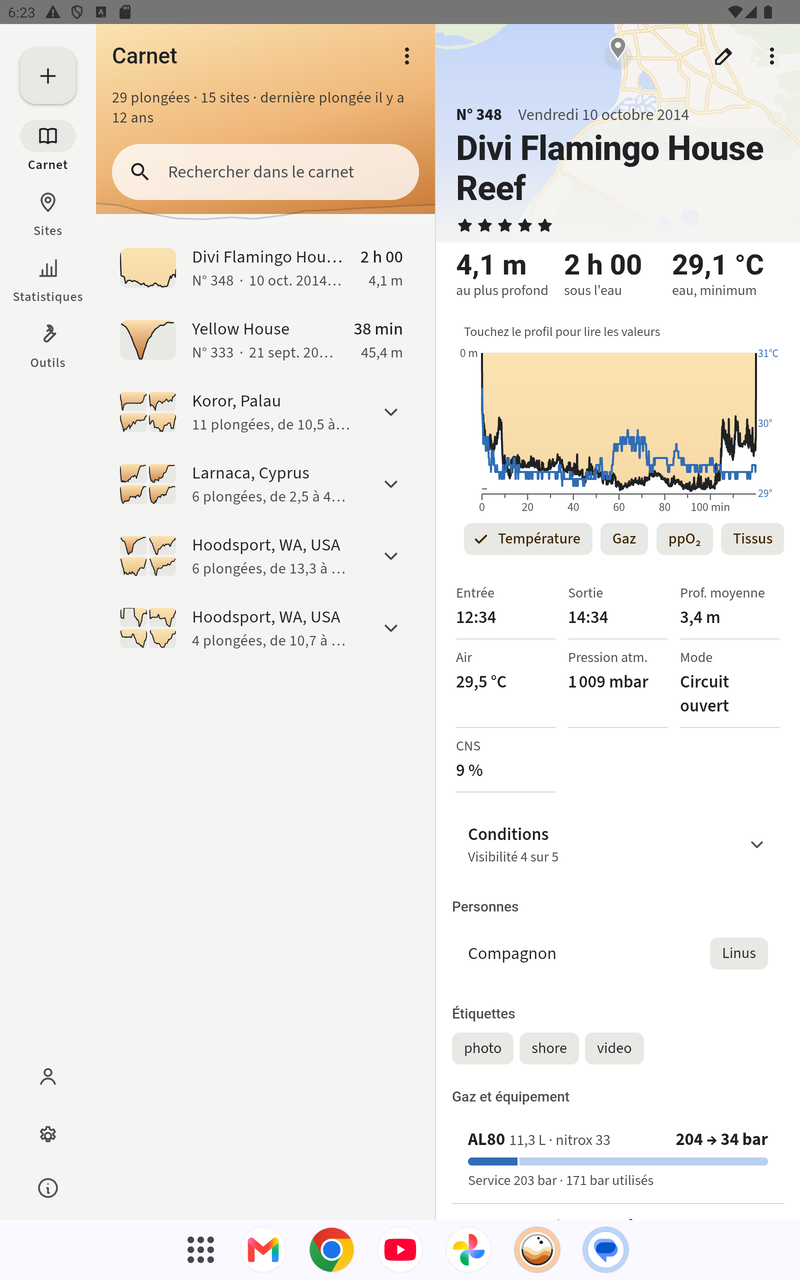
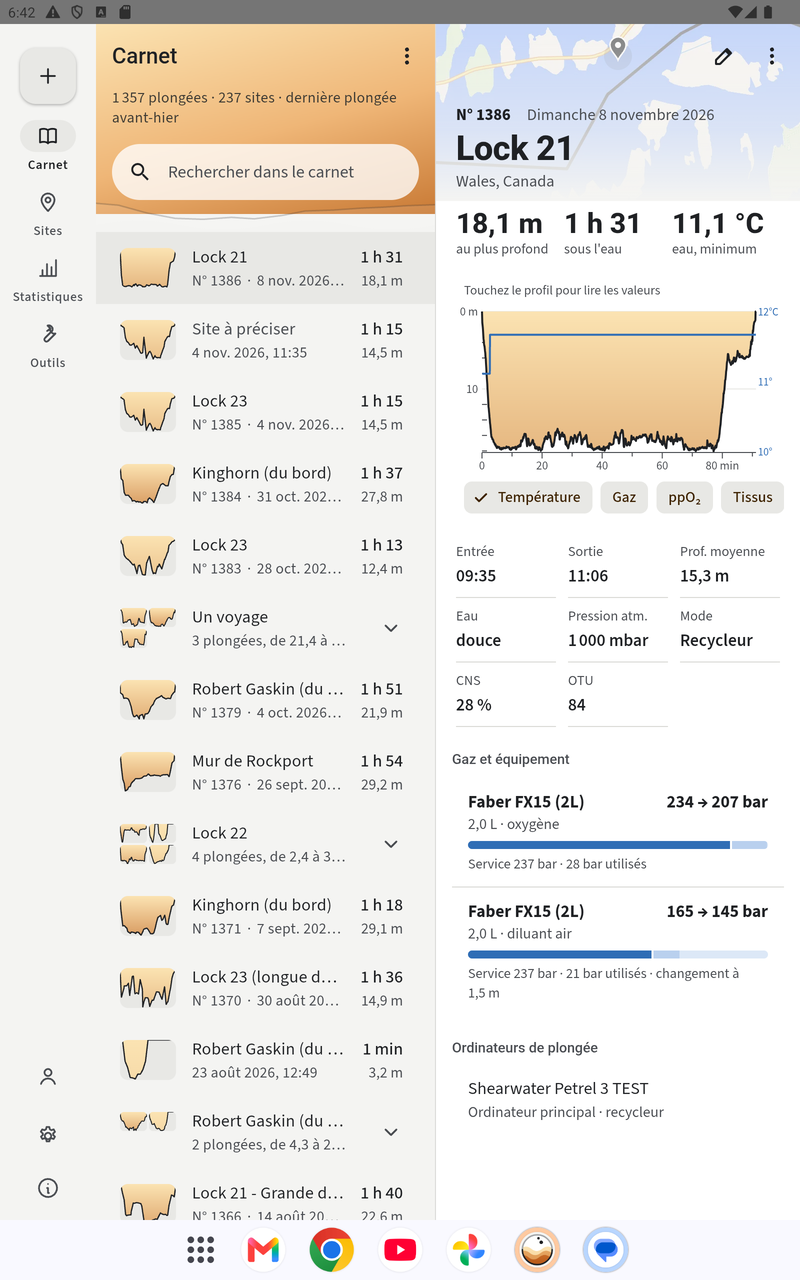
docs: Android tablet screenshots, every screen in landscape and portrait

diff --git a/docs/screenshots/android-tablet/README.md b/docs/screenshots/android-tablet/README.md
@@ -1,0 +1,72 @@
+# Android tablet screenshots
+
+Task 2026-11-10-17. Taken on 10 November 2026 on an Android tablet emulator (Pixel Tablet size: 2560 × 1600 px at 320 dpi, so 1280 × 800 dp), light theme, app and device locale in French.
+
+- **Scale:** 1 dp = 1 px. Each image is the whole screen, Android's status bar (24 dp) and the emulator's taskbar (60 dp) included: the app itself is 1280 × 716 dp in landscape and 800 × 1196 dp in portrait.
+- **Data:** the logbook of the cloud test account (1,357 dives, 237 sites), at Christian's request, instead of the bundled sample log.
+- **Layout common to every screen:** the navigation rail on the left, 96 dp, with + (add dives) at the top, Carnet, Sites, Statistiques, Outils, then Compte, Réglages and À propos at the bottom. The rail is the same in portrait.
+- **Panes:** the list pane is 340 dp in the Carnet, 400 dp in Statistics and 360 dp in Tools, in both orientations; the detail pane takes the rest. Sites, Account, Settings and About use the whole content area.
+
+| No. | Images | Route | Landscape | Portrait | Notes |
+| --- | --- | --- | --- | --- | --- |
+| 01 | [landscape](01-carnet-landscape.png), [portrait](01-carnet-portrait.png) | `/ and /dives/:id` | list 340 dp | list 340 dp | Home screen: the first dive opens beside the list. The band and the search bar sit in the list pane only. |
+| 02 | [landscape](02-carnet-search-landscape.png), [portrait](02-carnet-search-portrait.png) | `/` | list 340 dp | list 340 dp | Search "lock": the list pane filters, the detail keeps the dive shown. |
+| 03 | [landscape](03-carnet-selection-landscape.png), [portrait](03-carnet-selection-portrait.png) | `/` | list 340 dp | list 340 dp | Long press on a dive: selection mode in the list pane (✕, count, ⋮), check boxes before the thumbnails. |
+| 04 | [landscape](04-trip-landscape.png), [portrait](04-trip-portrait.png) | `/trips/:id` | list 340 dp | list 340 dp | A trip opens in the detail pane (dates, place, notes, its dives). |
+| 05 | [landscape](05-dive-detail-menu-landscape.png), [portrait](05-dive-detail-menu-portrait.png) | `/dives/:id` | list 340 dp, over it: od-menu popover | list 340 dp, over it: od-menu popover | The ⋮ menu of the detail is a popover at the top right of the detail pane. |
+| 06 | [landscape](06-edit-dive-landscape.png), [portrait](06-edit-dive-portrait.png) | `/dives/:id/edit` | list 340 dp, over it: od-edit-dive od-edit-sheet popup | list 340 dp, over it: od-edit-dive od-edit-sheet popup | The editor is a large sheet over both panes, in two columns in landscape, one in portrait. |
+| 07 | [landscape](07-add-menu-landscape.png), [portrait](07-add-menu-portrait.png) | `/` | list 1184 dp | list 704 dp | The + of the rail opens a bottom action sheet over the screen. |
+| 08 | [landscape](08-download-landscape.png), [portrait](08-download-portrait.png) | `/download` | list 340 dp | list 340 dp | Download opens in the detail pane, the list stays. |
+| 09 | [landscape](09-download-failed-landscape.png), [portrait](09-download-failed-portrait.png) | `/download/failed` | list 340 dp | list 340 dp | In the detail pane. |
+| 10 | [landscape](10-new-dive-landscape.png), [portrait](10-new-dive-portrait.png) | `/dives/new` | no list pane | no list pane | Logging a dive by hand takes the whole content area (no list pane). |
+| 11 | [landscape](11-filter-landscape.png), [portrait](11-filter-portrait.png) | `/filter` | list 340 dp | list 340 dp | The filter opens in the detail pane, with its bottom bar there. |
+| 12 | [landscape](12-filter-criterion-landscape.png), [portrait](12-filter-criterion-portrait.png) | `/filter/suits` | list 340 dp | list 340 dp | A criterion takes the whole content area. |
+| 20 | [landscape](20-sites-landscape.png), [portrait](20-sites-portrait.png) | `/sites/` | no list pane | no list pane | Sites: list on the left, map on the right in landscape; in portrait the map is wide and the list narrower. No list/detail split: a site replaces the whole area. |
+| 21 | [landscape](21-site-landscape.png), [portrait](21-site-portrait.png) | `/sites/:id` | no list pane | no list pane | A site takes the whole content area (map at the top). |
+| 22 | [landscape](22-site-edit-landscape.png), [portrait](22-site-edit-portrait.png) | `/sites/:id/edit` | no list pane | no list pane | Whole content area. |
+| 23 | [landscape](23-site-new-landscape.png), [portrait](23-site-new-portrait.png) | `/sites/new` | no list pane | no list pane | Whole content area. |
+| 24 | [landscape](24-sites-without-site-landscape.png), [portrait](24-sites-without-site-portrait.png) | `/sites/without/` | no list pane | no list pane | Whole content area. |
+| 25 | [landscape](25-sites-unplaced-landscape.png), [portrait](25-sites-unplaced-portrait.png) | `/sites/unplaced/` | no list pane | no list pane | Whole content area. |
+| 26 | [landscape](26-sites-cleanup-landscape.png), [portrait](26-sites-cleanup-portrait.png) | `/sites/cleanup` | no list pane | no list pane | Whole content area. |
+| 30 | [landscape](30-statistics-landscape.png), [portrait](30-statistics-portrait.png) | `/statistics/` | list 400 dp | list 400 dp | List pane 400 dp; the detail pane says "Choose a statistic to see it here". |
+| 31 | [landscape](31-statistics-result-landscape.png), [portrait](31-statistics-result-portrait.png) | `/statistics/result?c=…` | list 400 dp | list 400 dp | A result opens in the detail pane. |
+| 32 | [landscape](32-statistics-dives-landscape.png), [portrait](32-statistics-dives-portrait.png) | `/statistics/dives/?section=byYear&title=2024&c=…` | list 400 dp | list 400 dp | The dives of a row (here "2024") open in the detail pane. |
+| 33 | [landscape](33-statistics-new-landscape.png), [portrait](33-statistics-new-portrait.png) | `/statistics/new` | list 1184 dp, over it: od-statistic-new popup | list 704 dp, over it: od-statistic-new popup | "New statistic" is a popup over the whole screen. |
+| 40 | [landscape](40-tools-landscape.png), [portrait](40-tools-portrait.png) | `/tools/` | list 1184 dp | list 704 dp | Tools list on its own until a tool is chosen. |
+| 41 | [landscape](41-tools-desaturation-landscape.png), [portrait](41-tools-desaturation-portrait.png) | `/tools/desaturation` | list 360 dp | list 360 dp | Tools list 360 dp on the left, the tool in the detail pane. |
+| 42 | [landscape](42-tools-ead-mod-landscape.png), [portrait](42-tools-ead-mod-portrait.png) | `/tools/ead-mod` | list 360 dp | list 360 dp | Tool in the detail pane. |
+| 43 | [landscape](43-tools-best-mix-landscape.png), [portrait](43-tools-best-mix-portrait.png) | `/tools/best-mix` | no list pane | no list pane | Best mix takes the whole content area here (no list pane): differs from the other gas tools. |
+| 44 | [landscape](44-tools-blender-landscape.png), [portrait](44-tools-blender-portrait.png) | `/tools/blender` | list 360 dp | list 360 dp | Tool in the detail pane. |
+| 45 | [landscape](45-plans-landscape.png), [portrait](45-plans-portrait.png) | `/plans/` | list 360 dp | list 360 dp | Planned dives take the whole content area; the test account has no plan. |
+| 46 | [landscape](46-planner-landscape.png), [portrait](46-planner-portrait.png) | `/plan/new` | list 360 dp | list 360 dp | A new plan opens in the detail pane beside the tools list. |
+| 50 | [landscape](50-account-landscape.png), [portrait](50-account-portrait.png) | `/account` | no list pane | no list pane | Signed in to the test account: one column over the whole area. |
+| 51 | [landscape](51-account-sign-in-landscape.png), [portrait](51-account-sign-in-portrait.png) | `/account/sign-in` | no list pane | no list pane | Full area form. |
+| 52 | [landscape](52-account-create-landscape.png), [portrait](52-account-create-portrait.png) | `/account/create` | no list pane | no list pane | Full area form. |
+| 53 | [landscape](53-account-git-landscape.png), [portrait](53-account-git-portrait.png) | `/account/git` | no list pane | no list pane | Full area form. |
+| 54 | [landscape](54-account-git-token-help-landscape.png), [portrait](54-account-git-token-help-portrait.png) | `/account/git/token` | no list pane | no list pane | Full area page. |
+| 60 | [landscape](60-settings-landscape.png), [portrait](60-settings-portrait.png) | `/settings/` | no list pane | no list pane | Settings: one long column over the whole area (no list/detail split). |
+| 61 | [landscape](61-settings-computers-landscape.png), [portrait](61-settings-computers-portrait.png) | `/settings/computers/` | no list pane | no list pane | Whole area. |
+| 62 | [landscape](62-settings-cylinders-landscape.png), [portrait](62-settings-cylinders-portrait.png) | `/settings/cylinders/` | no list pane | no list pane | Whole area. |
+| 63 | [landscape](63-settings-cylinder-new-landscape.png), [portrait](63-settings-cylinder-new-portrait.png) | `/settings/cylinders/new` | no list pane | no list pane | Whole area. |
+| 64 | [landscape](64-settings-maps-landscape.png), [portrait](64-settings-maps-portrait.png) | `/settings/maps/` | no list pane | no list pane | Offline maps: list on the left, "Add a region" panel on the right. |
+| 65 | [landscape](65-settings-maps-area-landscape.png), [portrait](65-settings-maps-area-portrait.png) | `/settings/maps/area` | no list pane | no list pane | Choose on the map: the map with its fixed frame over the whole area. |
+| 66 | [landscape](66-settings-planner-landscape.png), [portrait](66-settings-planner-portrait.png) | `/settings/planner` | no list pane | no list pane | Whole area. |
+| 67 | [landscape](67-settings-bailout-landscape.png), [portrait](67-settings-bailout-portrait.png) | `/settings/bailout` | no list pane | no list pane | Whole area. |
+| 70 | [landscape](70-about-landscape.png), [portrait](70-about-portrait.png) | `/about` | no list pane | no list pane | Whole area. |
+| 71 | [landscape](71-about-notes-landscape.png), [portrait](71-about-notes-portrait.png) | `/about/notes` | no list pane | no list pane | Whole area. |
+| 72 | [landscape](72-about-licence-landscape.png), [portrait](72-about-licence-portrait.png) | `/about/licence` | no list pane | no list pane | Whole area. |
+| 73 | [landscape](73-about-privacy-landscape.png), [portrait](73-about-privacy-portrait.png) | `/about/privacy` | no list pane | no list pane | Whole area. |
+| 74 | [landscape](74-about-libraries-landscape.png), [portrait](74-about-libraries-portrait.png) | `/about/libraries` | no list pane | no list pane | Whole area. |
+
+## Not captured
+
+- The sync states (offline with changes waiting, failure, conflict): they need a broken network or a conflicting change on the test account.
+- The empty logbook and the Account screen without an account: the emulator is signed in to the test account.
+- iPad: no iOS build here.
+
+## Differences noticed
+
+- **Best mix** opens over the whole content area, while the other gas tools open beside the tools list.
+- **Statistics** in portrait keep the 400 dp list pane, which leaves the result about 300 dp wide.
+- In portrait, the **Carnet** detail pane is about 360 dp wide: the dive's title wraps and the figures are tight.
+- On an English device with the app set to French, dates and relative times stay in English (`Intl` follows the device locale, not the app language); these images use a French device locale.

diff --git a/docs/agent-inbox.md b/docs/agent-inbox.md
@@ -1236,7 +1236,9 @@ Spec: "Dive rows, duration above depth" (new). Mock-ups: `docs/mockups/android-c
 - Includes the branch `feature/carnet-month-headers` (task 14): apply it there too, without merging that branch.
 - A line in the release notes.
 
-## [ ] 2026-11-10-17 Android tablet: screenshots of every screen, portrait and landscape (no code change)
+## [x] 2026-11-10-17 Android tablet: screenshots of every screen, portrait and landscape (no code change)
+
+Done in "docs: Android tablet screenshots, every screen in landscape and portrait" (test account logbook at Christian's request; sync states, empty logbook and no-account screen not captured, see the README).
 
 Christian wants the Android tablet mock-ups redrawn to match what the app shows today, in portrait and in landscape. The canvas only has 7 old tablet boards. This task changes no code: it collects screenshots and facts for the design session.
 - Use an Android tablet emulator (Pixel Tablet or similar, about 1280 × 800 dp), light theme, French, with the bundled sample log (never a personal log). Take each screen in landscape and in portrait.
